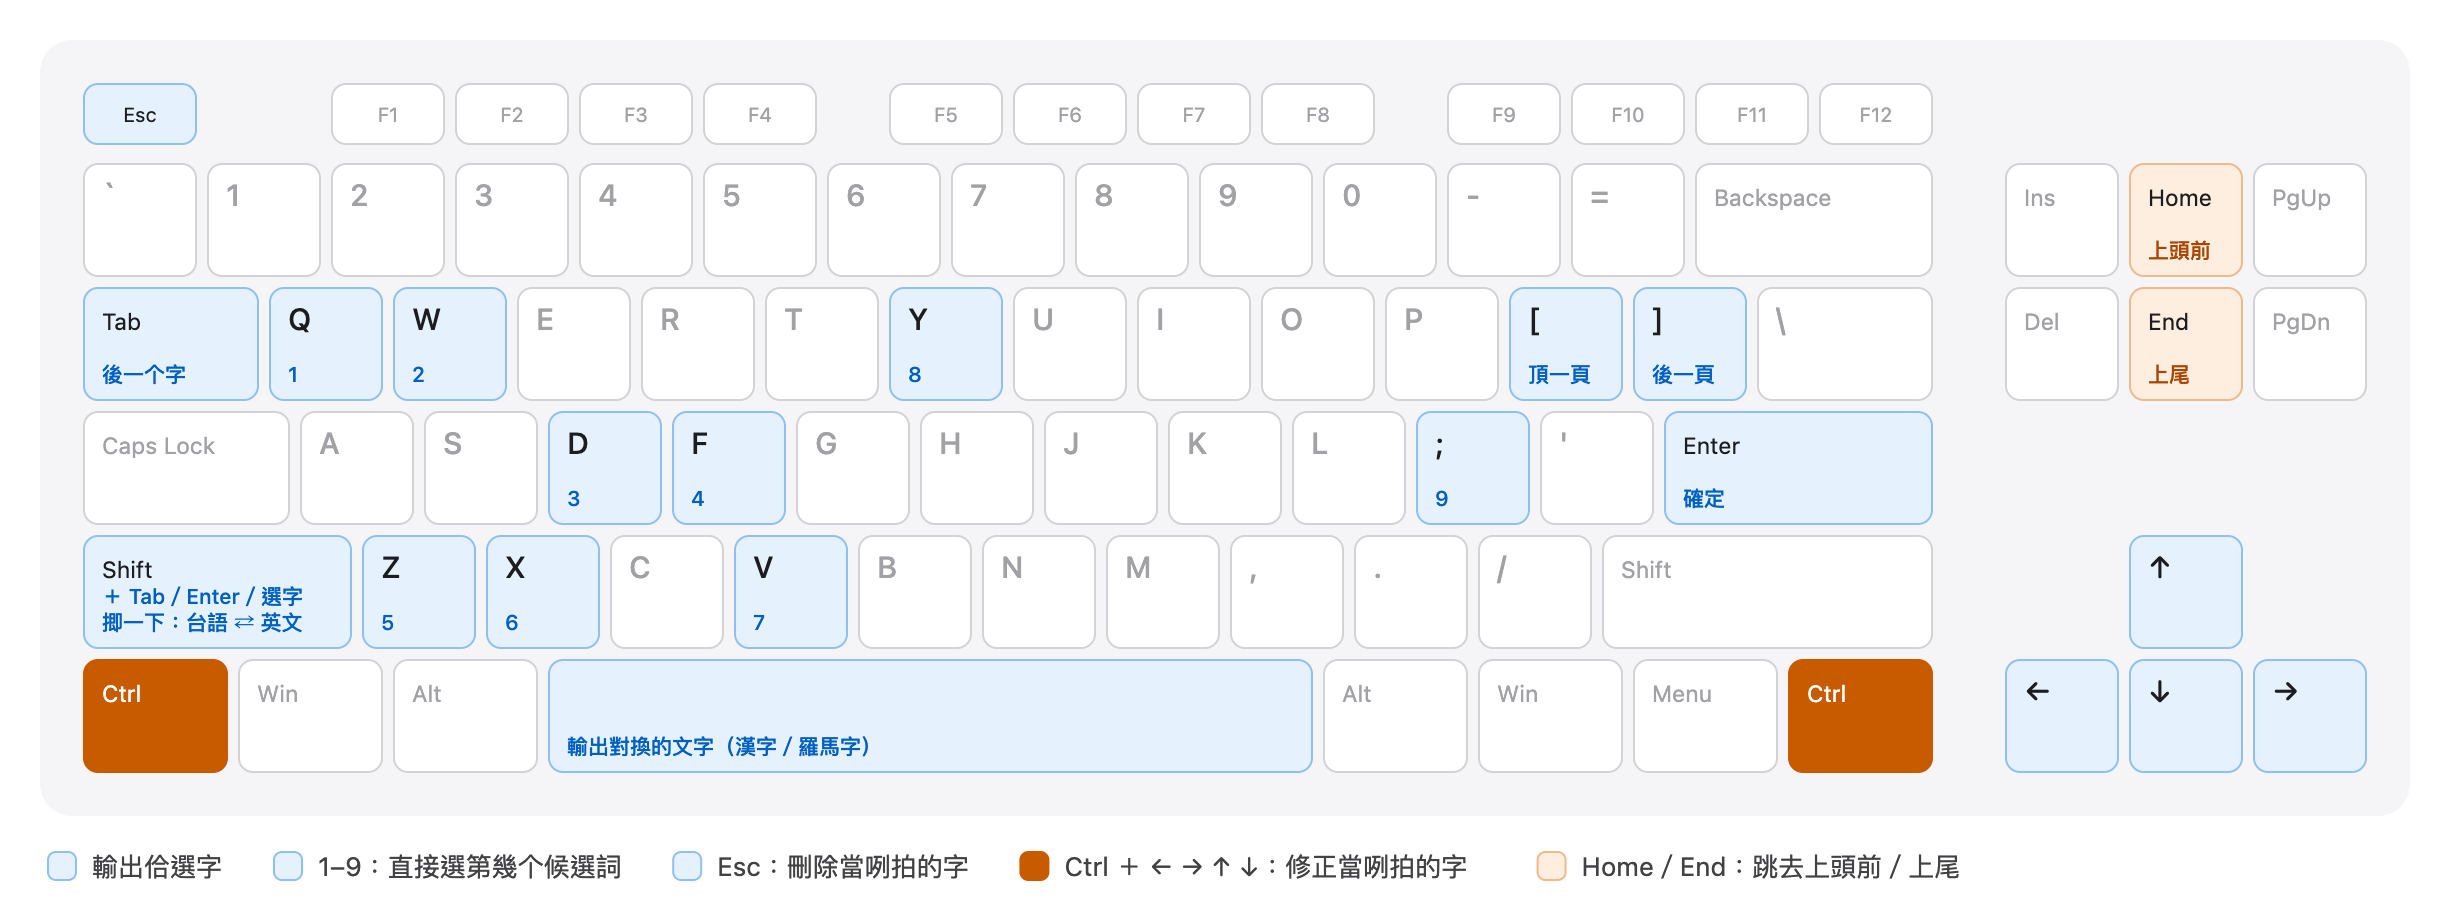
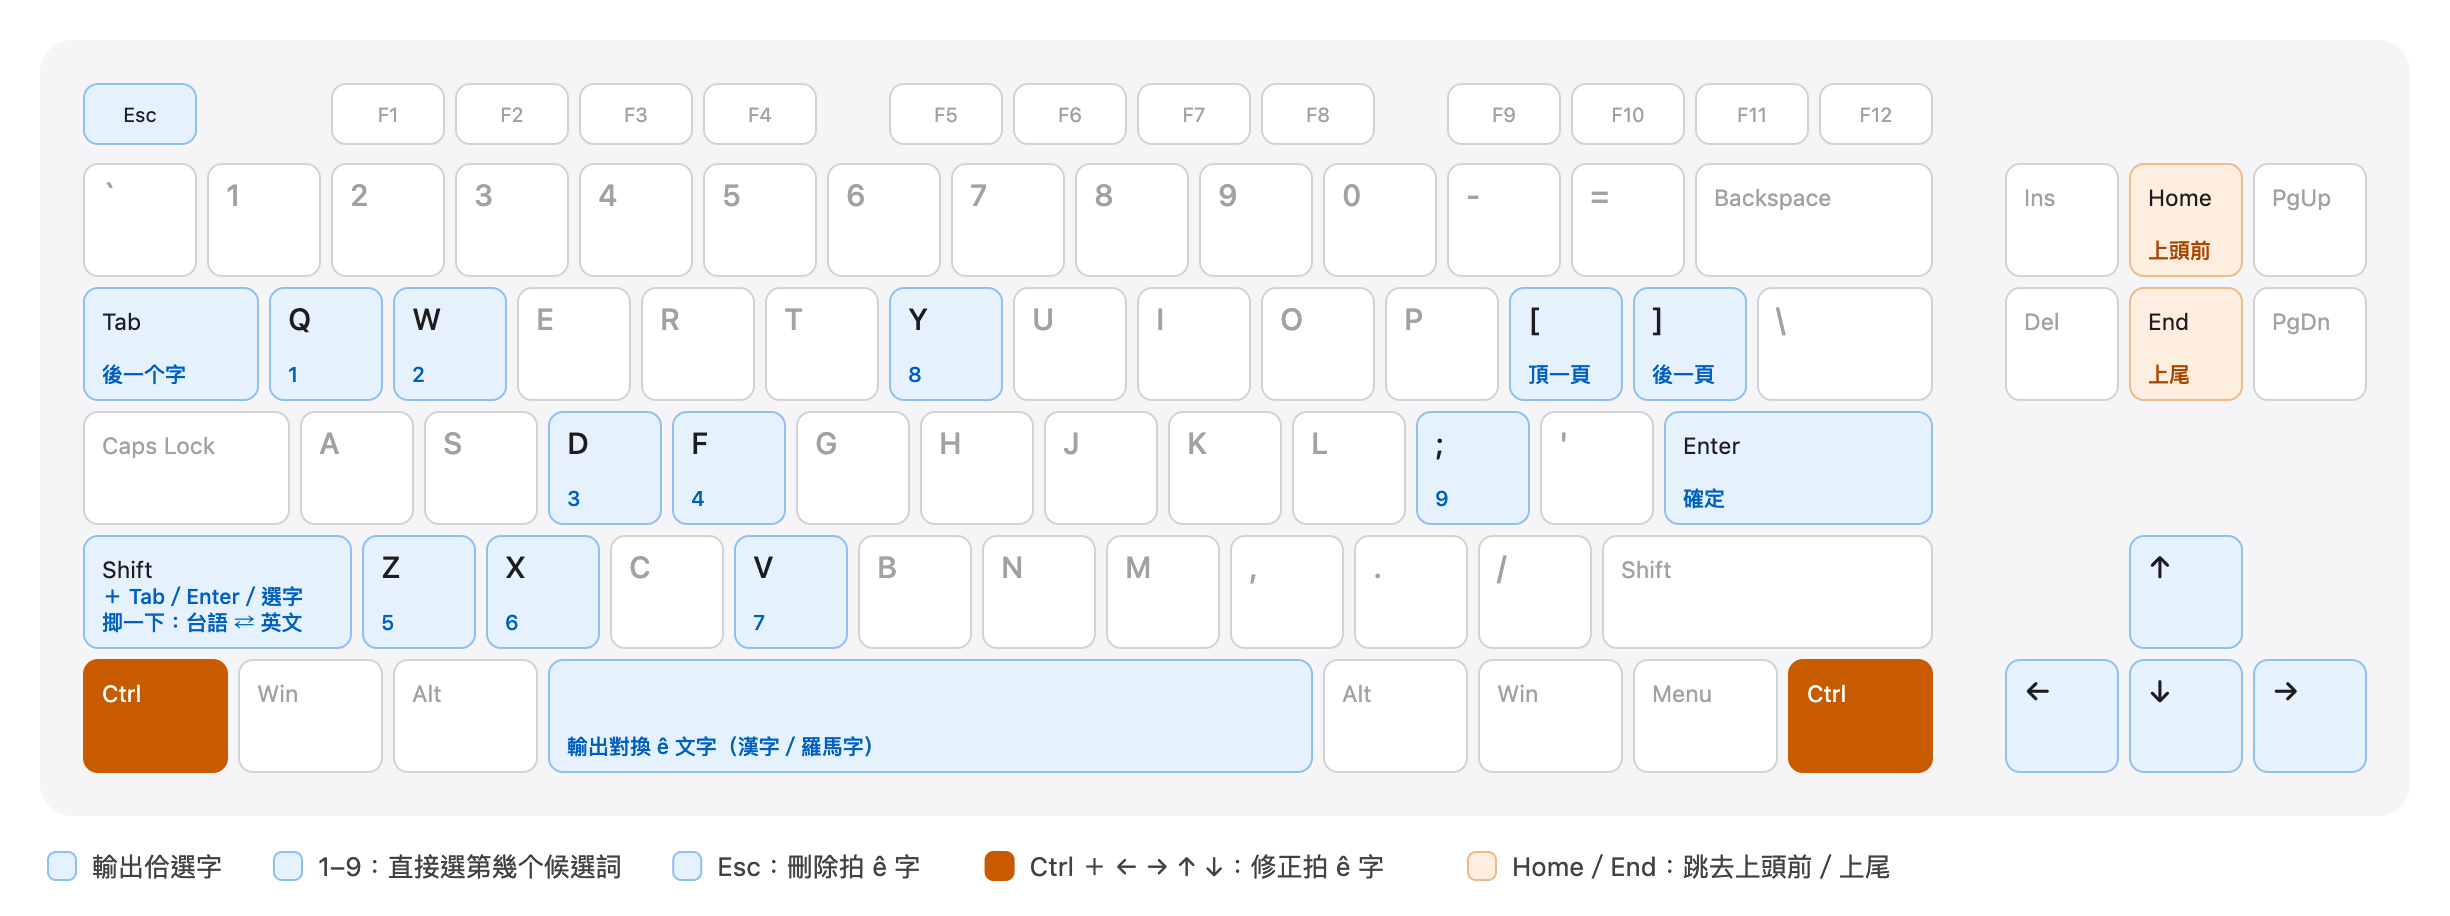
feat(i18n): hanji ê → 的; desktop labels 修正拍的字 / 輸出拍的字 (#522)
* feat(i18n): 當咧拍 ê 字 → 這馬拍 ê 字 on desktop labels

- i18n/desktop.json: shortcutMoveComposingCaret + actionCommitLiteral (hanji / tailo tsit-má / poj chit-má); regen
- manual: README, cheatsheet.html, keyboards.py + re-rendered PNGs

Claude-Session: https://claude.ai/code/session_01HREnPVCfwQh4HEPbFzZR6U

* feat(i18n): hanji ê → 的; drop 這馬 from desktop labels

- every i18n hanji value: possessive ê → 的 (space kept only before Latin: 使用的 App, PhahTaigi 的人); tailo/poj keep ê
- shortcutMoveComposingCaret / actionCommitLiteral: 修正拍的字 / 輸出拍的字 (tsit-má / chit-má dropped)
- manual: 這馬拍 ê 字 → 拍 ê 字, PNGs re-rendered; make i18n regen

Claude-Session: https://claude.ai/code/session_01HREnPVCfwQh4HEPbFzZR6U

---------

Changed region(s): [[0.3412, 0.917, 0.8065, 0.9782], [0.2482, 0.7948, 0.3722, 0.8253]]

diff --git a/manual/cheatsheet.html b/manual/cheatsheet.html
@@ -66,7 +66,7 @@ footer .right { margin-left: auto; }
       <tr><td>輸出漢字　台語</td><td><kbd class="mac">Return</kbd><kbd class="pc">Enter</kbd></td></tr>
       <tr><td>輸出羅馬字　tâi-gí</td><td><kbd>Space</kbd></td></tr>
       <tr><td>照拍的輸出　taigi</td><td><kbd class="mac">⇧</kbd><kbd class="mac">Return</kbd><kbd class="pc">Shift</kbd><kbd class="pc">Enter</kbd></td></tr>
-      <tr><td>刪除當咧拍 ê 字</td><td><kbd>Esc</kbd></td></tr>
+      <tr><td>刪除拍 ê 字</td><td><kbd>Esc</kbd></td></tr>
     </table>
   </div>
 
@@ -79,7 +79,7 @@ footer .right { margin-left: auto; }
       <tr><td>直接選字</td><td><kbd>q</kbd><kbd>w</kbd><kbd>d</kbd><kbd>f</kbd><kbd>z</kbd><kbd>x</kbd><kbd>v</kbd></td></tr>
       <tr><td>直接選，輸出對換 ê 文字</td><td><kbd class="mac">⇧</kbd><kbd class="pc">Shift</kbd><kbd>q</kbd><kbd>w</kbd>…</td></tr>
       <tr><td>徙動選字游標</td><td><kbd>←</kbd><kbd>→</kbd><kbd>↑</kbd><kbd>↓</kbd></td></tr>
-      <tr><td>修正當咧拍 ê 字</td><td><kbd class="mac">⌥</kbd><kbd class="pc">Ctrl</kbd><kbd>←</kbd><kbd>→</kbd></td></tr>
+      <tr><td>修正拍 ê 字</td><td><kbd class="mac">⌥</kbd><kbd class="pc">Ctrl</kbd><kbd>←</kbd><kbd>→</kbd></td></tr>
       <tr><td>標點換全角／半角</td><td><kbd class="mac">⌃</kbd><kbd class="pc">Ctrl</kbd><kbd>,</kbd><kbd>.</kbd><kbd>;</kbd></td></tr>
     </table>
   </div>

diff --git a/desktop/crates/taigi-desktop-core/src/strings/generated.rs b/desktop/crates/taigi-desktop-core/src/strings/generated.rs
@@ -468,7 +468,7 @@ fn hanji(key: StringKey) -> Option<&'static str> {
         StringKey::DesktopShortcutShowTelexGuide => "拍開 Telex 說明",
         StringKey::DesktopShortcutShowTpsKeyboard => "顯示方音符號小齒盤",
         StringKey::DesktopShortcutShowSymbolPicker => "拍開符號選單",
-        StringKey::DesktopShortcutMoveComposingCaret => "修正當咧拍 ê 字",
+        StringKey::DesktopShortcutMoveComposingCaret => "修正拍的字",
         StringKey::DesktopShortcutSelectCandidateSlot => "直接選字",
         StringKey::DesktopShortcutNavigateCandidates => "徙動選字游標",
         StringKey::DesktopTelexGuideTone => "第 {0} 調",
@@ -500,8 +500,8 @@ fn hanji(key: StringKey) -> Option<&'static str> {
         StringKey::DesktopActionNextCandidate => "後一个字",
         StringKey::DesktopActionPreviousCandidate => "頂一个字",
         StringKey::DesktopActionConfirmHighlighted => "確定齒",
-        StringKey::DesktopActionCommitLiteral => "輸出當咧拍 ê 字",
-        StringKey::DesktopActionCommitAlternateScript => "輸出對換 ê 文字（漢字/羅馬字）",
+        StringKey::DesktopActionCommitLiteral => "輸出拍的字",
+        StringKey::DesktopActionCommitAlternateScript => "輸出對換的文字（漢字/羅馬字）",
         StringKey::DesktopShortcutUnbound => "無設定",
         StringKey::DesktopShortcutRecording => "揤一个齒…",
         StringKey::DesktopShortcutRejectedTaken => "已經予佔用",
@@ -595,8 +595,8 @@ fn hanji(key: StringKey) -> Option<&'static str> {
         StringKey::DictionaryLearningRecordsAddedToCustomDictionary => "已經加入自訂詞庫",
         StringKey::HomeAppHeaderTitle => "台語齒盤",
         StringKey::HomeAboutKeyboard => "關於齒盤",
-        StringKey::HomeAboutIntroProject => "台語齒盤是一个自由、開源 ê 台語拍字家私，永遠免費、無廣告，嘛袂推出付費功能。毋管是一般使用者、先生、學校抑是台語教育團體，攏會當自由使用。希望予逐家用台語、教台語 ê 時，免有額外 ê 負擔。",
-        StringKey::HomeAboutIntroMaintainer => "這个計畫目前由我一个人利用上班以外 ê 時間開發佮維護。向望會當一直做落去，予逐个想欲用母語拍字 ê 人，攏會當輕鬆用母語拍字。",
+        StringKey::HomeAboutIntroProject => "台語齒盤是一个自由、開源的台語拍字家私，永遠免費、無廣告，嘛袂推出付費功能。毋管是一般使用者、先生、學校抑是台語教育團體，攏會當自由使用。希望予逐家用台語、教台語的時，免有額外的負擔。",
+        StringKey::HomeAboutIntroMaintainer => "這个計畫目前由我一个人利用上班以外的時間開發佮維護。向望會當一直做落去，予逐个想欲用母語拍字的人，攏會當輕鬆用母語拍字。",
         StringKey::HomeWebsiteLink => "taigikeyboard.tw",
         StringKey::HomeGithubLink => "GitHub",
         StringKey::HomeDiscordLink => "Discord",
@@ -627,7 +627,7 @@ fn hanji(key: StringKey) -> Option<&'static str> {
         StringKey::SettingsSyllableSeparatorSpace => "空白",
         StringKey::SettingsSyllableSeparatorNone => "無",
         StringKey::SettingsCandidateWindow => "顯示選字窗",
-        StringKey::SettingsLiteralRomanCandidate => "拍 ê 羅馬字囥第一格",
+        StringKey::SettingsLiteralRomanCandidate => "拍的羅馬字囥第一格",
         StringKey::SettingsToneInputScheme => "聲調拍法",
         StringKey::SettingsToneSchemeStandard => "數字調",
         StringKey::SettingsToneSchemeTelex => "Telex",
@@ -1092,7 +1092,7 @@ fn tailo(key: StringKey) -> Option<&'static str> {
         StringKey::DesktopShortcutShowTelexGuide => "Phah-khui Telex suat-bîng",
         StringKey::DesktopShortcutShowTpsKeyboard => "Hián-sī Hong-im-hû-hō sió khí-puânn",
         StringKey::DesktopShortcutShowSymbolPicker => "Phah-khui hû-hō suán-tuann",
-        StringKey::DesktopShortcutMoveComposingCaret => "Siu-tsìng tng-teh phah ê jī",
+        StringKey::DesktopShortcutMoveComposingCaret => "Siu-tsìng phah ê jī",
         StringKey::DesktopShortcutSelectCandidateSlot => "Ti̍t-tsiap suán-jī",
         StringKey::DesktopShortcutNavigateCandidates => "Suá-tāng suán-jī iû-pio",
         StringKey::DesktopTelexGuideTone => "Tē {0} tiāu",
@@ -1124,7 +1124,7 @@ fn tailo(key: StringKey) -> Option<&'static str> {
         StringKey::DesktopActionNextCandidate => "Āu tsi̍t ê jī",
         StringKey::DesktopActionPreviousCandidate => "Tíng tsi̍t ê jī",
         StringKey::DesktopActionConfirmHighlighted => "Khak-tīng khí",
-        StringKey::DesktopActionCommitLiteral => "Su-tshut tng-teh phah ê jī",
+        StringKey::DesktopActionCommitLiteral => "Su-tshut phah ê jī",
         StringKey::DesktopActionCommitAlternateScript => "Su-tshut tuì-uānn ê bûn-jī (Hàn-jī / Lô-má-jī)",
         StringKey::DesktopShortcutUnbound => "Bô siat-tīng",
         StringKey::DesktopShortcutRecording => "Tshi̍h tsi̍t ê khí…",
@@ -1300,7 +1300,7 @@ fn poj(key: StringKey) -> Option<&'static str> {
         StringKey::DesktopShortcutShowTelexGuide => "Phah-khui Telex soat-bêng",
         StringKey::DesktopShortcutShowTpsKeyboard => "Hián-sī Hong-im-hû-hō sió khí-pôaⁿ",
         StringKey::DesktopShortcutShowSymbolPicker => "Phah-khui hû-hō soán-toaⁿ",
-        StringKey::DesktopShortcutMoveComposingCaret => "Siu-chèng tng-teh phah ê jī",
+        StringKey::DesktopShortcutMoveComposingCaret => "Siu-chèng phah ê jī",
         StringKey::DesktopShortcutSelectCandidateSlot => "Ti̍t-chiap soán-jī",
         StringKey::DesktopShortcutNavigateCandidates => "Sóa-tāng soán-jī iû-piau",
         StringKey::DesktopTelexGuideTone => "Tē {0} tiāu",
@@ -1332,7 +1332,7 @@ fn poj(key: StringKey) -> Option<&'static str> {
         StringKey::DesktopActionNextCandidate => "Āu chi̍t ê jī",
         StringKey::DesktopActionPreviousCandidate => "Téng chi̍t ê jī",
         StringKey::DesktopActionConfirmHighlighted => "Khak-tēng khí",
-        StringKey::DesktopActionCommitLiteral => "Su-chhut tng-teh phah ê jī",
+        StringKey::DesktopActionCommitLiteral => "Su-chhut phah ê jī",
         StringKey::DesktopActionCommitAlternateScript => "Su-chhut tùi-oāⁿ ê bûn-jī (Hàn-jī / Lô-má-jī)",
         StringKey::DesktopShortcutUnbound => "Bô siat-tēng",
         StringKey::DesktopShortcutRecording => "Chhi̍h chi̍t ê khí…",

diff --git a/manual/keyboards.py b/manual/keyboards.py
@@ -271,8 +271,8 @@ def typing(mac):
     legend = [
         ("blue", "輸出佮選字"),
         ("blue", "1–9：直接選第幾个候選詞"),
-        ("blue", "Esc：刪除當咧拍 ê 字"),
-        ("orange-solid", f"{chord} ＋ ← → ↑ ↓：修正當咧拍 ê 字"),
+        ("blue", "Esc：刪除拍 ê 字"),
+        ("orange-solid", f"{chord} ＋ ← → ↑ ↓：修正拍 ê 字"),
     ]
     if not mac:
         orange.update(marks("orange", {"home": "上頭前", "end": "上尾"}))
